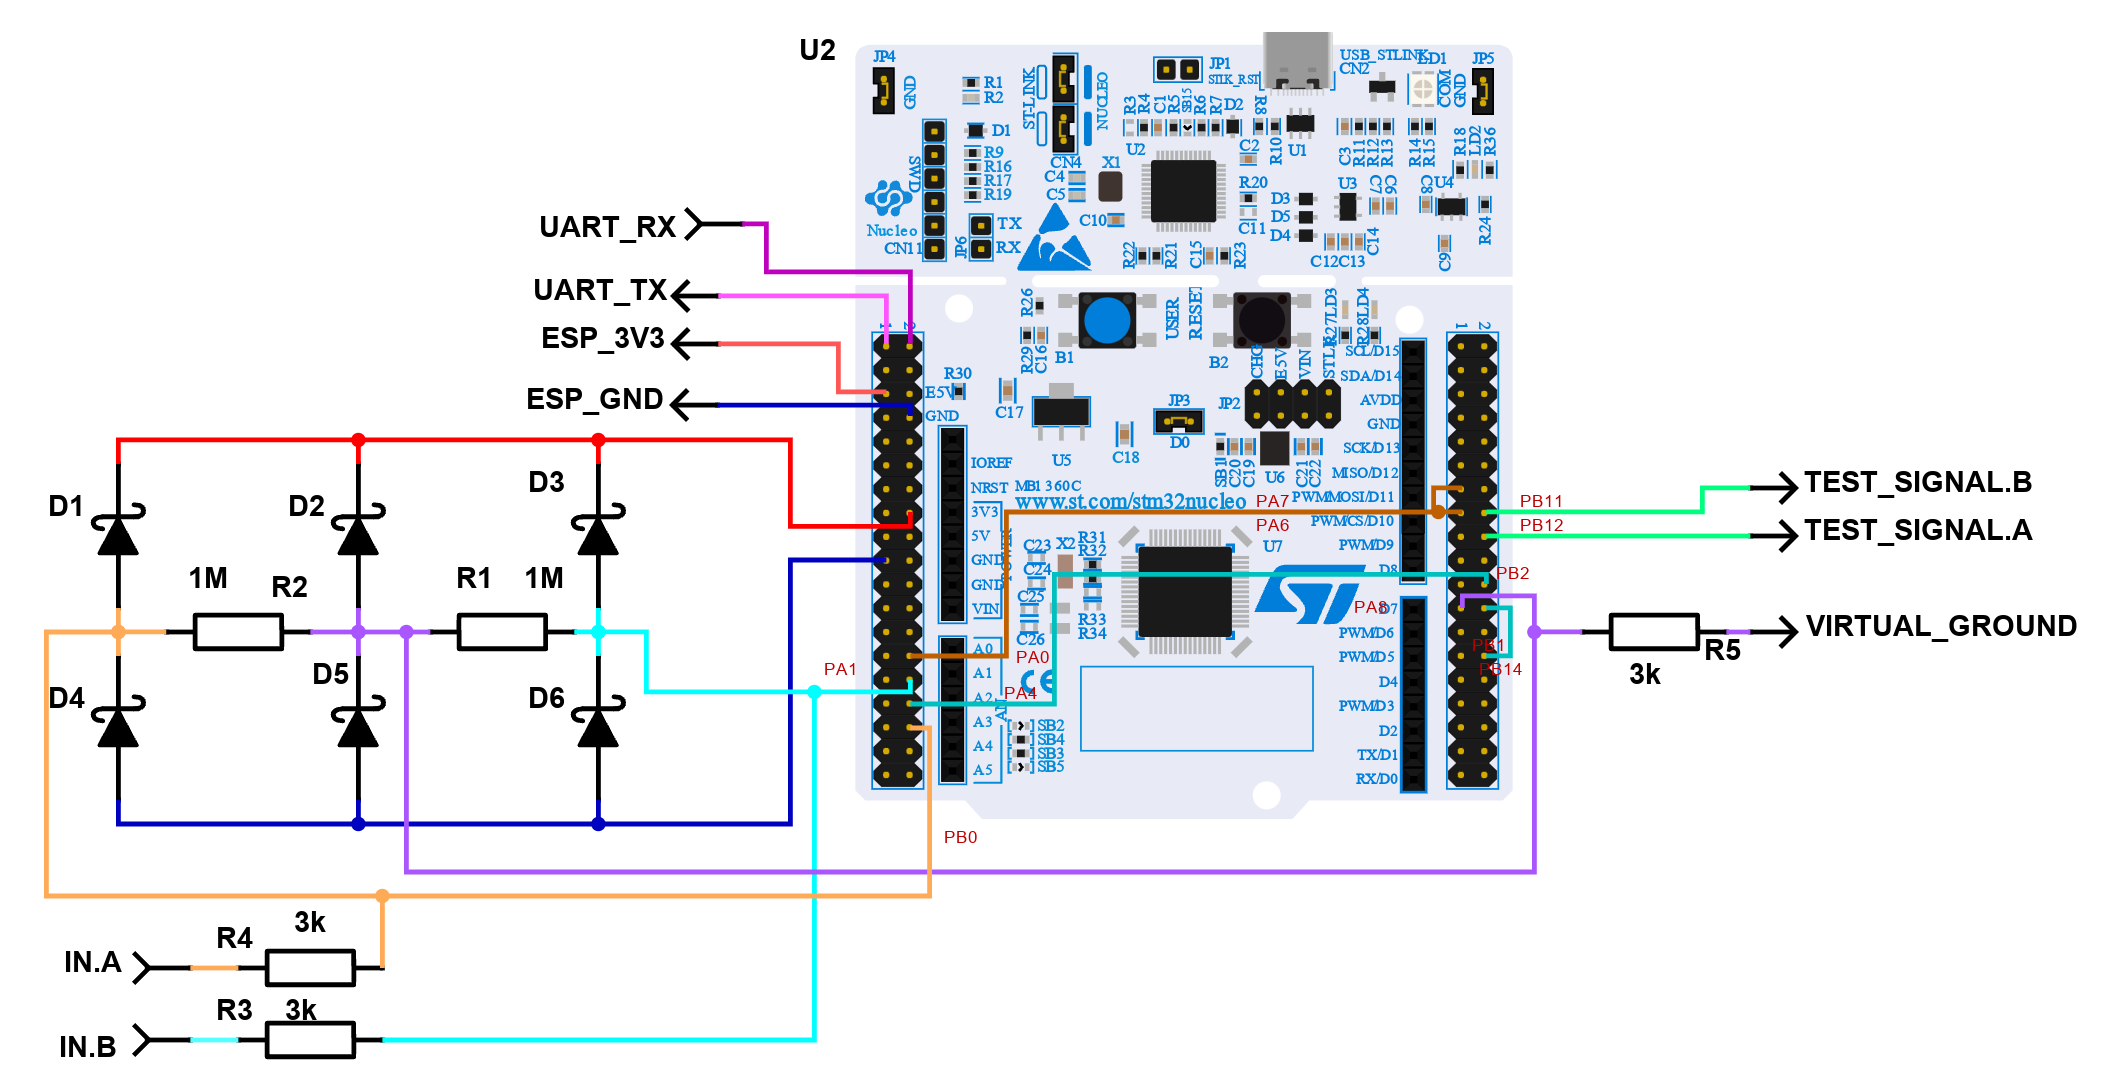
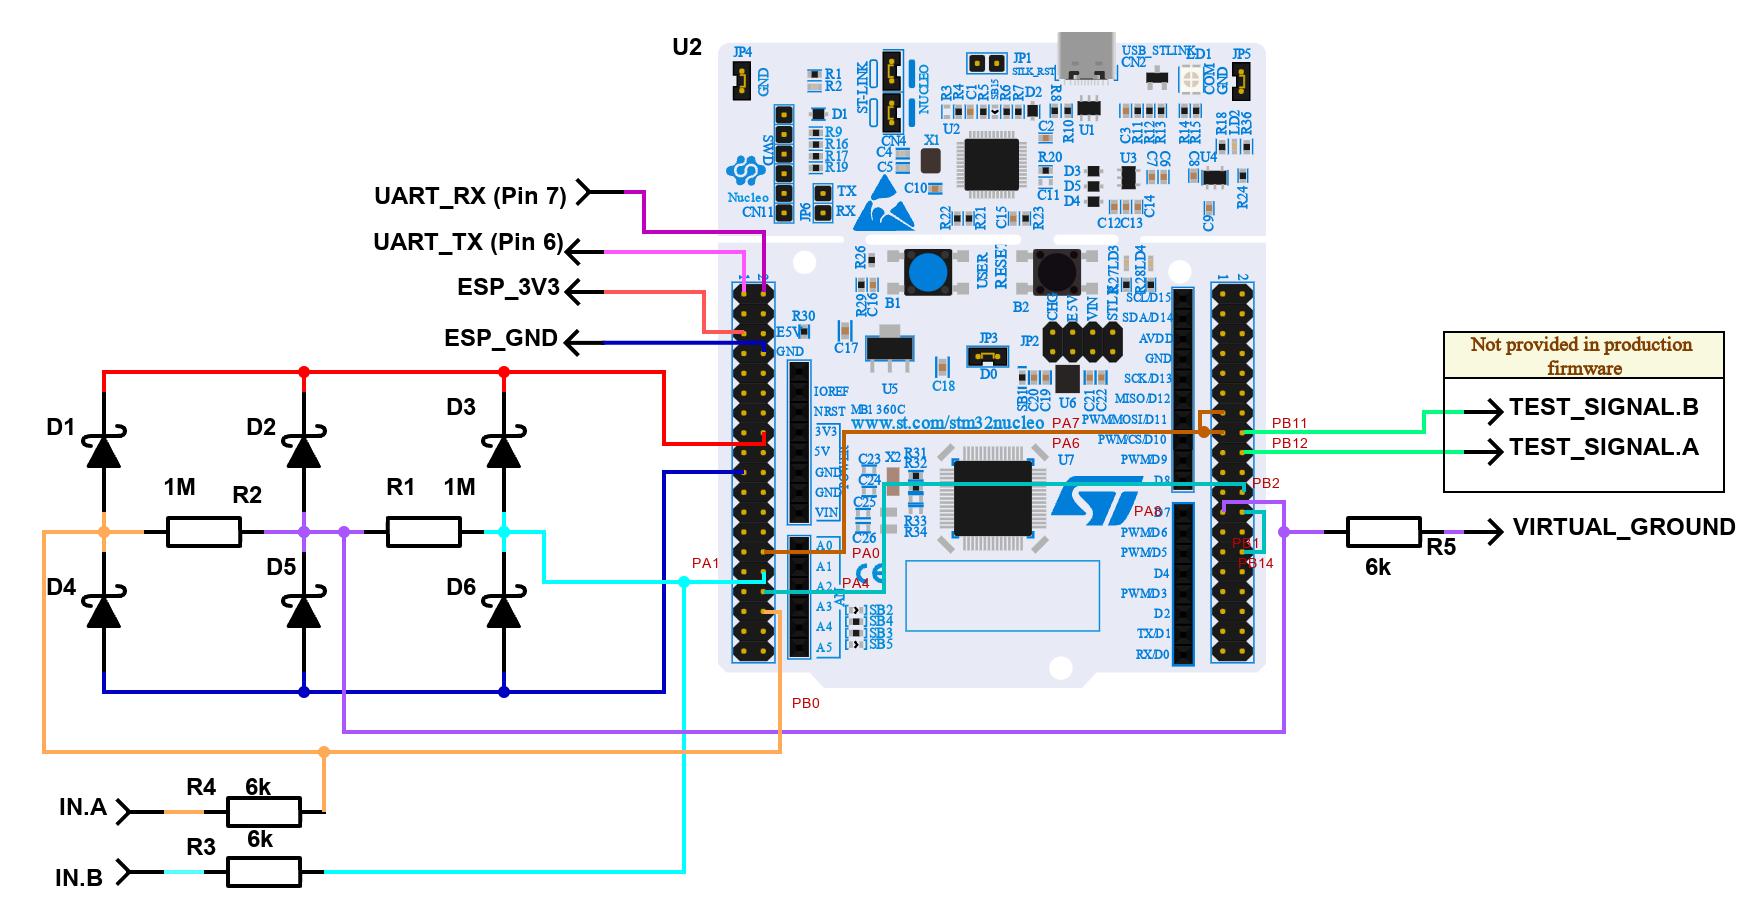
README.md & DEVELOPMENT.md

Changed region(s): [[0.0, 0.0308, 1.0, 0.9868], [0.8438, 0.5551, 1.0, 0.5859], [0.75, 0.5551, 0.8438, 0.6167]]

diff --git a/README.md b/README.md
@@ -1,0 +1,124 @@
+# FoxilloScope (G4 Oscilloscope)
+
+An accessible, dual-channel, 12-bit digital wireless oscilloscope built around low-cost off-the-shelf development hardware: the **ST Nucleo-G474RE** board and an **M5Stamp C3U** (ESP32-C3) module.
+
+The goal of this project is to turn inexpensive, readily available development components into a practical, portable oscilloscope with live-streaming over Wi-Fi or Bluetooth LE — requiring minimal soldering and no custom PCBs.
+
+> 💡 **Developer Note**: For firmware compilation, hardware debug configurations, jumper setups, and local debug servers, see the **[Developer & Contributor Guide](DEVELOPMENT.md)**.
+
+---
+
+## Key Features & Hardware Design
+
+- **Affordable Hardware**: Total hardware cost is under €25 / $30 (minimal soldering, no custom PCBs needed)
+  - Analog front-end (AFE) built on the ST [Nucleo-G474RE](https://www.st.com/en/evaluation-tools/nucleo-g474re.html) board – handling signal capture and triggering
+  - [M5Stamp C3U](https://www.espressif.com/en/news/M5Stamp_C3U) handles wireless connectivity and hosts the web server
+  - Signal conditioning built with six Schottky diodes (BAS40-04 dual-diodes or equivalent) and five resistors
+  - Inexpensive oscilloscope probes (not included in BOM)
+- **Bipolar Signal Measurement**: On-chip analog front-end (AFE) supports true bipolar AC/DC signal measurements (both positive and negative voltages) around virtual ground.
+  > ⚠ **Important Grounding Notice**: Users **must not** connect probe ground clips to the board's GND pins. Always connect probe ground clips to the board's dedicated **Virtual Ground** output.
+  > This provides a clean mid-rail reference for bipolar measurements and prevents shorting power rails.
+- **Input Voltage Range**: Measurable range −1.65 V to +1.65 V (1:10 attenuating oscilloscope probes recommended); safe input range −30 V to +30 V.
+- **Input Signal Protection**: A resistor and diode protection network protects MCU inputs against out-of-range signal spikes.
+- **Multi-Transport Web UI**: Single-page web dashboard accessible via Wi-Fi (WebSockets), Bluetooth LE (WebBluetooth), or USB (WebSerial).
+
+---
+
+## Assemble at Home (Quick Start)
+
+1. **Flash the Nucleo Board & Set Production Jumpers**: 
+   1. Connect the Nucleo board to your computer via USB. A virtual USB drive will appear.
+   2. Copy the `FoxilloScope-Production.bin` firmware file from the latest release assets directly onto the Nucleo's USB drive.
+   3. Wait a couple of seconds and then disconnect the board.
+   4. **Configure Jumpers (blocks onboard ST-LINK in off/reset state)**:
+      - **JP1**: Closed
+      - **JP5 & JP3**: Open
+2. **Flash the M5Stamp C3U**:
+   1. Connect the M5Stamp C3U board to your computer via USB.
+   2. Open the [Espressif Web Flasher](https://espressif.github.io/esptool-js/).
+   3. Click **Connect** and select the M5Stamp UART port.
+   4. Flash the gateway binary from the latest release assets to the ESP32 at **Flash&nbsp;Address** `0`. 
+3. **Solder Protection & Connections**: 
+   1. Prepare the signal conditioning components:
+      - **Schottky Diodes**: 6× Schottky diodes (BAS40-04 dual-diode sets were used, but almost any Schottky diodes with reverse voltage $V_R \ge 40\text{ V}$ and minimal junction capacitance fit).
+      - **Resistors**: $2\times 1\text{ M}\Omega$ resistors and $3\times 3\dots 6\text{ k}\Omega$ resistors.
+   2. Solder the input protection network and interconnections as shown in the wiring diagram below:
+      ![Wiring Diagram](docs/wiring.png)
+   3. Attach measurement probes to Channel A / Channel B inputs, and connect probe ground clips to the **Virtual Ground** output. 
+4. **Verify Operation**:
+   1. *(Optional)* If the debug STM32 firmware is flashed, connect test signal outputs A/B to the Channel A/B inputs or probes:
+      - **Test Signal A**: Small-amplitude decaying sine wave
+      - **Test Signal B**: Triangle wave (−1.65 V to 0 V)
+   2. **Bluetooth LE (BLE) Connection**:
+      1. Power up the system and navigate to `http://f-scope.local/` in your Chrome browser.
+      2. Click the Bluetooth button at the bottom-left to connect, then select the *F-SCOPE-xxxx* device.
+      3. Test if oscilloscope is working correctly.
+   3. **Wi-Fi Connection**:
+      1. Connect to the *FoxilloScope-xxxx* Wi-Fi network.
+      2. Open `http://f-scope.local/` or `http://192.168.4.1/` in your browser.
+      3. Test if oscilloscope is working correctly.
+5. **Wi-Fi Setup**:
+   1. Connect to the *FoxilloScope-xxxx* Wi-Fi network.
+   2. Open `http://f-scope.local/wifi` or `http://192.168.4.1/wifi` in your browser.
+   3. Set up Wi-Fi credentials (Until ESP32-C6 gateway is used, only 2.4 GHz Wi-Fi is supported).
+   4. Reconnect back to your Wi-Fi.
+   5. Open `http://f-scope.local/` in your browser.
+
+*(where xxxx represents the device ID – the last four hex digits of the ESP32 MAC address)*
+
+---
+
+### Printable Device Label Generator
+You can generate a custom 50 mm × 90 mm label/sticker with QR codes for quick Wi-Fi pairing and web URLs:
+1. Open [sticker/index.html](https://html-preview.github.io/?url=https://github.com/elmot/FoxilloScope/blob/master/sticker/index.html) in your web browser.
+2. Enter the 4-digit hex MAC ID (`xxxx`) of your device.
+3. Print the label to attach to your board or enclosure.
+
+---
+
+## M5Stamp C3U Setup & Status Indications
+
+The M5Stamp C3U acts as the wireless bridge connecting the STM32 to your browser.
+
+### Pin Connections
+- **GPIO 6**: UART TX (connects to STM32 UART RX)
+- **GPIO 7**: UART RX (connects to STM32 UART TX)
+- **GPIO 2**: Data line for onboard SK6812 RGB LED (WS2812 protocol)
+
+### Onboard RGB LED Statuses
+
+| LED Color         | Status / Meaning                                                      |
+|:------------------|:----------------------------------------------------------------------|
+| **Green**         | Client actively connected over **WebSocket**                          |
+| **Blue**          | Client actively connected over **Bluetooth LE (BLE)**                 |
+| **Orange**        | Wi-Fi station connection failed (fallback Access Point is active)     |
+| **White**         | Connected to Wi-Fi network, waiting for web client                    |
+| **Purple**        | Idle in Access Point mode (`FoxilloScope` AP), waiting for connection |
+| **Blinking Pink** | STM32 firmware update complete (power cycle required)                 |
+
+---
+
+## Deployment & Web Access
+
+### 1. Wireless Gateway Mode (Default)
+Connect your computer, phone, or tablet to the ESP32 gateway (either directly via its `FoxilloScope` AP or through your local Wi-Fi network) and open:
+```text
+http://f-scope.local/
+```
+The ESP32 serves the web frontend and streams data in real time via WebSockets.
+
+### 2. Standalone CDN / GitHub Pages Mode
+The web app can also be hosted on any static HTTPS server (e.g. GitHub Pages). In this mode, the browser connects directly to the hardware via:
+- **WebBluetooth**: Connect wirelessly over BLE.
+- **WebSerial**: Connect directly over USB at 460,800 baud.
+
+---
+
+## Documentation & References
+
+- **[Developer & Contributor Guide](DEVELOPMENT.md)** – Firmware compilation, debug hardware jumper configurations, Python debug server, and tools used.
+- **Hardware Wiring & Pinout**: [docs/pinout-peripherals.md](docs/pinout-peripherals.md) & [docs/wiring.png](docs/wiring.png)
+- **Subsystem Architecture References**:
+  - STM32 Firmware Architecture: [AGENTS.md](AGENTS.md)
+  - ESP32 Gateway Architecture: [esp32-gateway/AGENTS.md](esp32-gateway/AGENTS.md)
+  - Web Frontend Architecture: [html/AGENTS.md](html/AGENTS.md)

diff --git a/DEVELOPMENT.md b/DEVELOPMENT.md
@@ -1,0 +1,87 @@
+# FoxilloScope – Developer & Contributor Guide
+
+This guide provides technical information for developers building firmware, setting up hardware debug configurations, and contributing to the FoxilloScope project.
+
+For end-user quick start instructions and assembly steps, see [README.md](README.md).
+
+---
+
+## 🤖 AI-Assisted Development Invitation
+
+Feel free to use AI coding agents (such as Google Antigravity, Claude, ChatGPT, Cursor, etc.) to modify, extend, or adapt this project to your needs!
+
+To make AI pair-programming seamless and reliable, dedicated **`AGENTS.md`** context files are placed throughout every subsystem directory:
+- **Root / STM32 Firmware**: [AGENTS.md](AGENTS.md) – Covers MCU AFE scaling math, ADC phase interleaving, trigger engine, and dual UART DMA transmission.
+- **ESP32 Gateway Subsystem**: [esp32-gateway/AGENTS.md](esp32-gateway/AGENTS.md) – Covers WebSocket/BLE streaming, network configuration, and AN3155 in-application STM32 firmware flashing.
+- **Web Frontend Subsystem**: [html/AGENTS.md](html/AGENTS.md) – Covers uPlot integration, custom canvas drawing hooks, parameter scaling, and gesture interactions.
+
+---
+
+## Subsystem Architecture & Codebase Structure
+
+The project is split into three main software components:
+
+- **[STM32 Firmware](AGENTS.md)** (`Core/`) – Runs on the STM32G474RET6 MCU. Handles high-speed ADC sampling, hardware AFE scaling, trigger logic, and dual UART DMA transmission.
+- **[ESP32 Gateway Firmware](esp32-gateway/AGENTS.md)** (`esp32-gateway/`) – ESP-IDF v6.0 project. While an M5Stamp C3U (ESP32-C3) is used by default, **any Wi-Fi/BLE-enabled ESP32 chip or board** (e.g., ESP32, ESP32-C3/C5/C6, ESP32-S2/S3) supported by ESP-IDF can be used. Refer to the official [ESP-IDF Target Hardware Documentation](https://docs.espressif.com/projects/esp-idf/en/v6.0/esp32/get-started/index.html#target-hardware) for configuring alternative target chips (`idf.py set-target <chip>`).
+- **[Web Frontend](html/AGENTS.md)** (`html/`) – Single-page HTML/JS application (`index.html`) using uPlot for real-time waveform rendering, gesture interactions, gain scaling, and measurement readouts.
+- **Hardware Documentation** (`docs/`) – Wiring diagrams, pin maps, and schematics.
+- **Python Debug Server** (`py/`) – Local desktop development bridge over USB Serial.
+
+---
+
+## Power & Debug Hardware Configurations
+
+### Production Mode (Standalone Wireless)
+For standard standalone production deployment and power jumper setups, see the **[Production Jumper Settings in README.md](README.md#assemble-at-home-quick-start)**:
+- **Power**: Nucleo is powered directly via the M5Stamp 3.3V rail.
+- **Jumper Settings**: `JP1` closed, `JP5` & `JP3` open (blocks onboard ST-LINK from interfering in off/reset state).
+
+### Wi-Fi Debug Mode (Development)
+- **Power & Wiring**: M5Stamp and Nucleo share a common ground (GND), are powered independently (e.g., separate USB cables), and have RX & TX connected.
+- **Jumper Settings**:
+  - **JP1**: Open
+  - **JP5**: Set to **5V_STLINK**
+  - **JP3**: Closed
+- **Hardware Debug Interfaces**:
+  - **M5Stamp C3U**: Debugged via on-chip USB-JTAG interface.
+  - **Nucleo-G474RE**: Debugged via onboard ST-LINK debugger.
+
+---
+
+## Python Debug Server (Desktop Development)
+
+For local web UI development without needing the ESP32 gateway hardware, run the Python debug server ([py/chart_server.py](py/chart_server.py)) on a desktop PC:
+
+```sh
+cd py
+python chart_server.py
+```
+
+This bridges the STM32's USB Virtual COM port (LPUART1) directly to a local WebSocket server at `http://localhost:8000/`.
+
+---
+
+## Tools Used & Reference Links
+
+- **STM32 Firmware**:
+  - [STM32CubeMX](https://www.st.com/en/development-tools/stm32cubemx.html) – Graphical peripheral configuration tool
+  - [STM32CubeCLT](https://www.st.com/en/development-tools/stm32cubeclt.html) – Command-line build toolset and GCC ARM toolchain
+  - [JetBrains CLion](https://www.jetbrains.com/clion/) – Cross-platform C/C++ IDE
+- **ESP32 Gateway**:
+  - [Espressif ESP-IDF v6.0](https://docs.espressif.com/projects/esp-idf/en/v6.0/esp32/) – Official development framework for ESP32 chips
+- **Schematics & Wiring**:
+  - [DigiKey Scheme-it](https://www.digikey.com/schemeit/project/) – Free online schematic capture tool
+- **Web Frontend**:
+  - Vanilla JavaScript
+  - [uPlot](https://github.com/leeoniya/uPlot) – Fast, lightweight 2D canvas charting engine
+  - [Lucide Icons](https://lucide.dev/) – Open-source icon library
+
+---
+
+## Documentation References
+
+- **User Guide & Assembly**: [README.md](README.md)
+- **STM32 Architecture Reference**: [AGENTS.md](AGENTS.md)
+- **ESP32 Gateway Architecture Reference**: [esp32-gateway/AGENTS.md](esp32-gateway/AGENTS.md)
+- **Frontend Architecture Reference**: [html/AGENTS.md](html/AGENTS.md)
+- **Pinout & Wiring Mapping**: [docs/pinout-peripherals.md](docs/pinout-peripherals.md) & [docs/wiring.png](docs/wiring.png)
